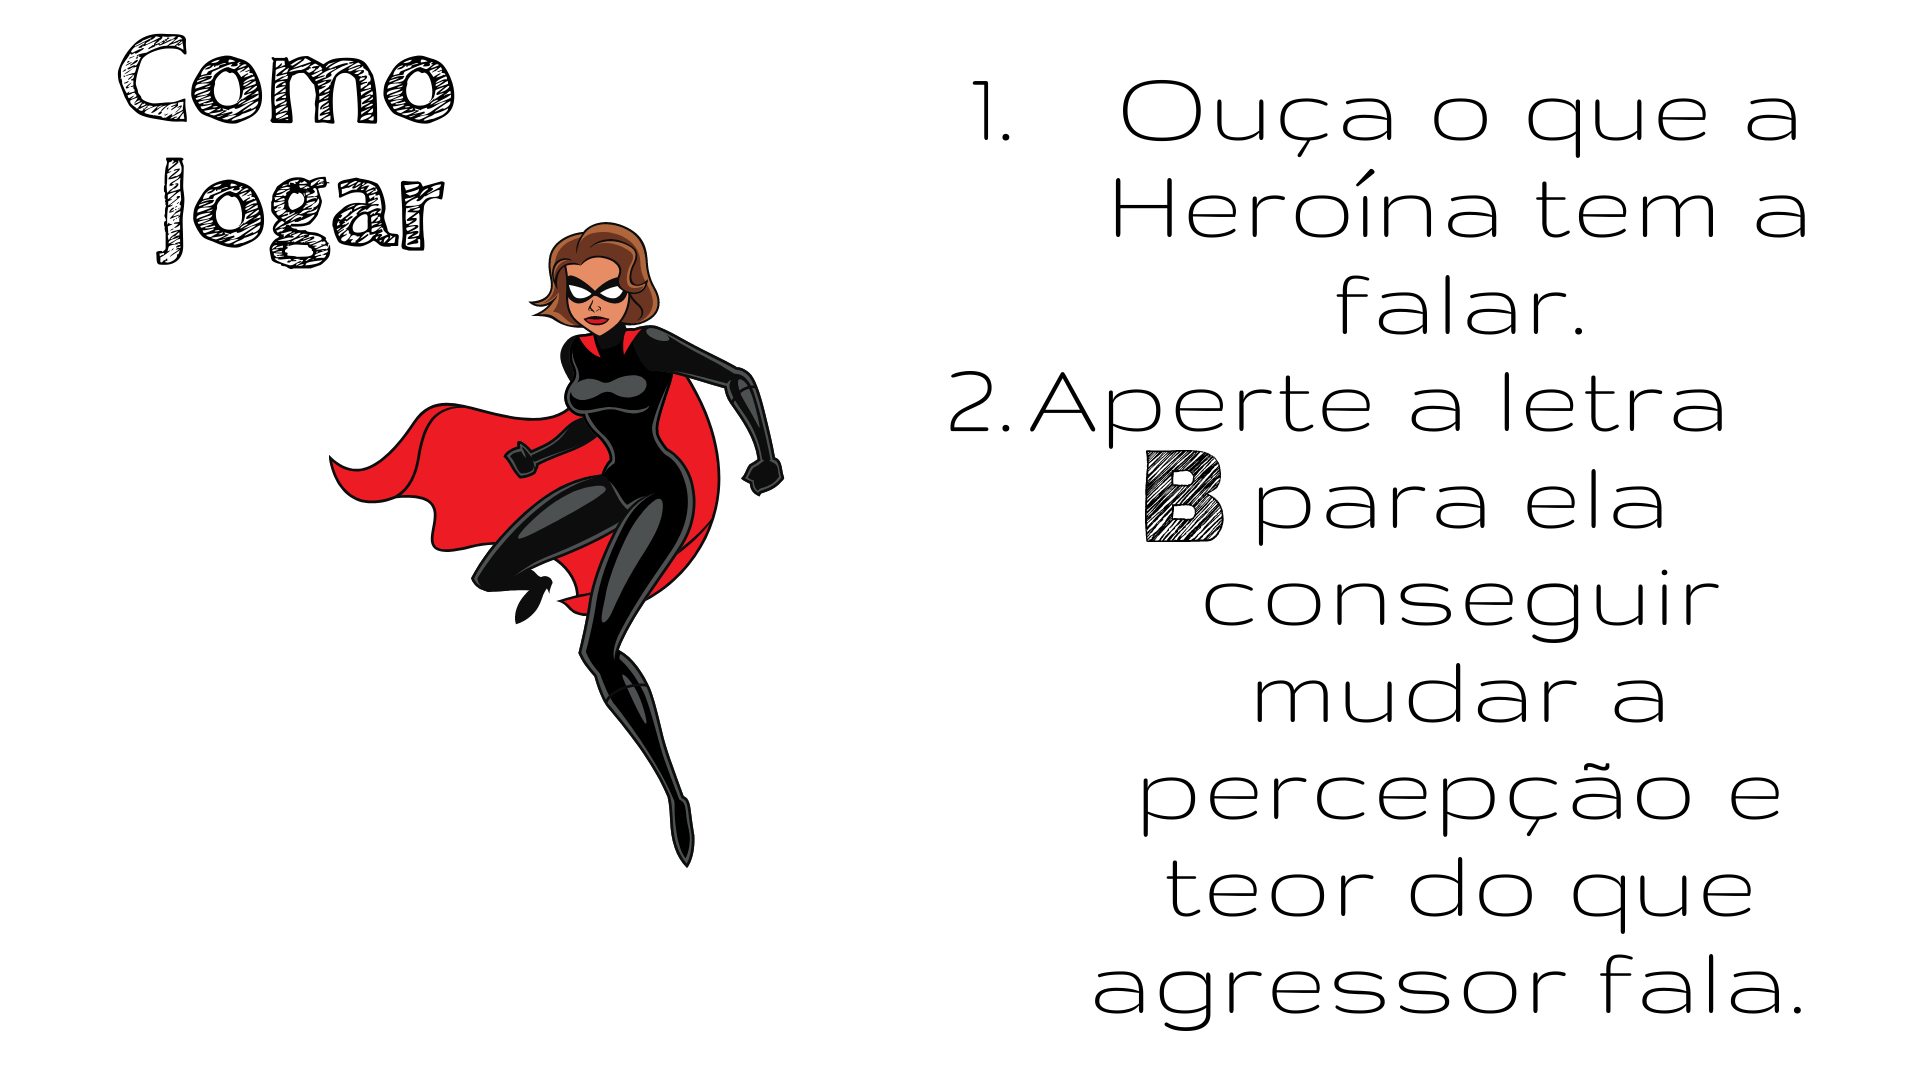
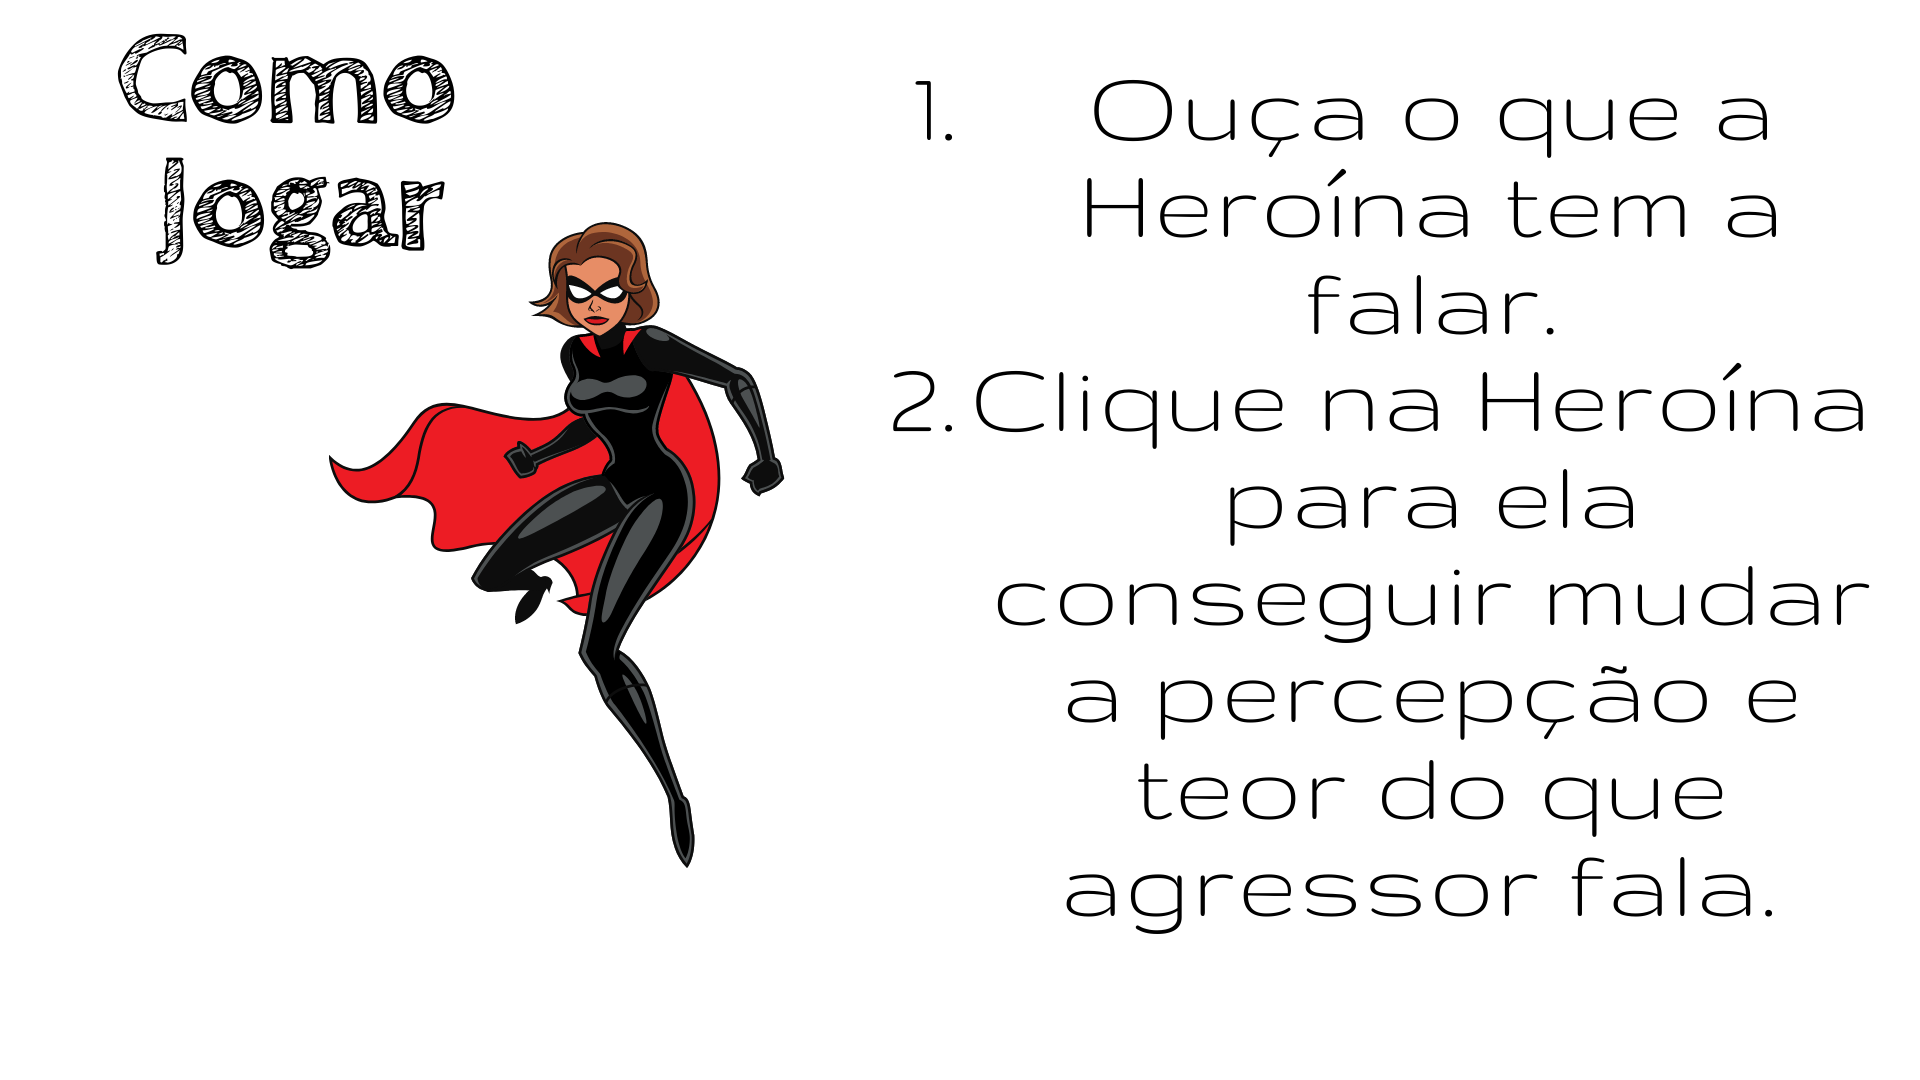
Ajuste de instruções considerando mobile

diff --git a/assets/Script/Proximafase1.js b/assets/Script/Proximafase1.js
@@ -41,7 +41,7 @@ cc.Class({
         if (this.podePassar==false){
             return;
         }
-        cc.director.loadScene('Cena2-pre');
+        cc.director.loadScene('Cena2.1-pre');
         
     },
     faseConcluida: function (passou) {
